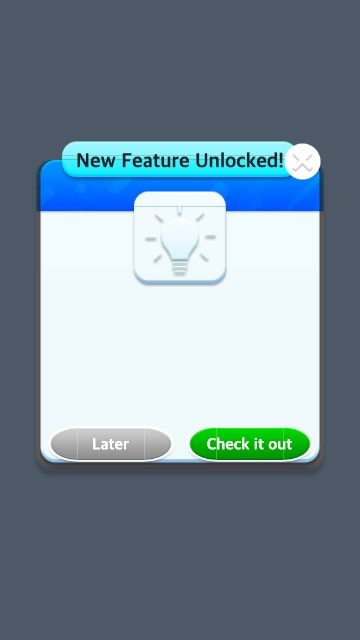
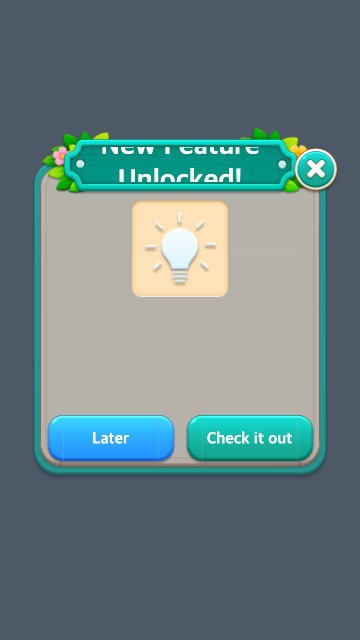
[Max] 팝업 아트 UI 필요 여부 문서 갱신 — 리스타일 반영 (적용 완료 4 → 24)

diff --git a/docs/story-merge-popup-art-need.html b/docs/story-merge-popup-art-need.html
@@ -19,8 +19,6 @@
       <div class="wrap wrap--wide nav-inner">
         <a class="nav-back" href="../index.html">← 허브</a>
         <a class="nav-back" href="#overview">한눈에</a>
-        <a class="nav-back" href="#ingame">인게임</a>
-        <a class="nav-back" href="#outgame">아웃게임</a>
         <a class="nav-back" href="#both">공용</a>
         <a class="nav-back" href="#none">미연결</a>
         <a class="nav-back" href="#done">적용 완료</a>
@@ -39,7 +37,7 @@
           <span class="tag">assets/bundle/popup 프리팹 33종 실측</span>
           <span class="tag">구분 = ViewCreator 호출처</span>
           <span class="tag">판정 = 그림 파일 최초 커밋</span>
-          <span class="tag">2026-10-07</span>
+          <span class="tag">2026-10-14 · 클라 74514e5 + 미커밋 리스타일</span>
         </div>
       </div>
     </header>
@@ -48,28 +46,18 @@
 
       <section class="doc-section" id="overview">
         <h2 class="doc-h2">한눈에 <span class="doc-h2-sub">구분 × 판정 · 필요가 먼저</span></h2>
-        <div class="projbar" id="flt"><button class="projbtn is-active" type="button" data-f="all" style="--acc: var(--analysis)">전체 <span class="projbtn-n">33</span></button><button class="projbtn" type="button" data-f="need" style="--acc: var(--bad)">필요 <span class="projbtn-n">28</span></button><button class="projbtn" type="button" data-f="ok" style="--acc: var(--ok)">적용 완료 <span class="projbtn-n">4</span></button><button class="projbtn" type="button" data-f="na" style="--acc: var(--text-dim)">불필요 <span class="projbtn-n">1</span></button></div>
+        <div class="projbar" id="flt"><button class="projbtn is-active" type="button" data-f="all" style="--acc: var(--analysis)">전체 <span class="projbtn-n">33</span></button><button class="projbtn" type="button" data-f="need" style="--acc: var(--bad)">필요 <span class="projbtn-n">8</span></button><button class="projbtn" type="button" data-f="ok" style="--acc: var(--ok)">적용 완료 <span class="projbtn-n">24</span></button><button class="projbtn" type="button" data-f="na" style="--acc: var(--text-dim)">불필요 <span class="projbtn-n">1</span></button></div>
         <div class="table-scroll">
           <table id="mx">
             <thead><tr><th>구분</th><th data-v="need">필요</th><th data-v="ok">적용 완료</th><th data-v="na">불필요</th></tr></thead>
-            <tbody><tr data-c="ingame"><td><b>인게임</b></td><td data-v="need">생성기 재충전 · 오더 납품 · 판매 확인 · 도구 확인</td><td data-v="ok">생성기 정보 · 보관함 · 새 생성기</td><td data-v="na">—</td></tr><tr data-c="outgame"><td><b>아웃게임</b></td><td data-v="need">스토리 대화 · 출석 · 꾸미기 · 우편함 · 마을 목록 · 설정 · 언어 선택 · 개인정보</td><td data-v="ok">—</td><td data-v="na">인트로 영상</td></tr><tr data-c="both"><td><b>공용</b></td><td data-v="need">상점 · 프로필 · 아바타 선택 · 이름 변경 · 에너지 구매 · 기능 해금 · 레벨업 · 새 날 · 구매 완료 · 오류 · 연결 끊김</td><td data-v="ok">심부름</td><td data-v="na">—</td></tr><tr data-c="none"><td><b>미연결</b></td><td data-v="need">주간 과제 · 보상 공개 · 스타터 팩 · 1+1 오퍼 · 새 버전 · 점검</td><td data-v="ok">—</td><td data-v="na">—</td></tr></tbody>
+            <tbody><tr data-c="ingame"><td><b>인게임</b></td><td data-v="need">—</td><td data-v="ok">생성기 정보 · 생성기 재충전 · 보관함 · 새 생성기 · 오더 납품 · 판매 확인 · 도구 확인</td><td data-v="na">—</td></tr><tr data-c="outgame"><td><b>아웃게임</b></td><td data-v="need">—</td><td data-v="ok">스토리 대화 · 출석 · 꾸미기 · 우편함 · 마을 목록 · 설정 · 언어 선택 · 개인정보</td><td data-v="na">인트로 영상</td></tr><tr data-c="both"><td><b>공용</b></td><td data-v="need">상점 · 새 날 · 구매 완료</td><td data-v="ok">심부름 · 프로필 · 아바타 선택 · 이름 변경 · 에너지 구매 · 기능 해금 · 레벨업 · 오류 · 연결 끊김</td><td data-v="na">—</td></tr><tr data-c="none"><td><b>미연결</b></td><td data-v="need">주간 과제 · 보상 공개 · 스타터 팩 · 1+1 오퍼 · 새 버전 · 점검</td><td data-v="ok">—</td><td data-v="na">—</td></tr></tbody>
           </table>
         </div>
       </section>
 
-      <section class="doc-section" id="ingame">
-        <h2 class="doc-h2">인게임 <span class="doc-h2-sub">필요 4종 · 인게임 화면에서만 열림</span></h2>
-        <div class="shots"><figure class="shot" data-v="need"><img loading="lazy" src="img/popup-art/PopupGeneratorRecharge.jpg" alt="PopupGeneratorRecharge"><figcaption><b>생성기 재충전 <span class="pill" style="--acc: var(--bad)">필요</span></b><span class="src">PopupGeneratorRecharge · 인게임</span></figcaption></figure><figure class="shot" data-v="need"><img loading="lazy" src="img/popup-art/PopupOrderServe.jpg" alt="PopupOrderServe"><figcaption><b>오더 납품 <span class="pill" style="--acc: var(--bad)">필요</span></b><span class="src">PopupOrderServe · 인게임</span></figcaption></figure><figure class="shot" data-v="need"><img loading="lazy" src="img/popup-art/PopupSellConfirm.jpg" alt="PopupSellConfirm"><figcaption><b>판매 확인 <span class="pill" style="--acc: var(--bad)">필요</span></b><span class="src">PopupSellConfirm · 인게임</span></figcaption></figure><figure class="shot" data-v="need"><img loading="lazy" src="img/popup-art/PopupToolConfirm.jpg" alt="PopupToolConfirm"><figcaption><b>도구 확인 <span class="pill" style="--acc: var(--bad)">필요</span></b><span class="src">PopupToolConfirm · 인게임</span></figcaption></figure></div>
-      </section>
-
-      <section class="doc-section" id="outgame">
-        <h2 class="doc-h2">아웃게임 <span class="doc-h2-sub">필요 8종 · 아웃게임 화면 · 부팅에서만 열림</span></h2>
-        <div class="shots"><figure class="shot" data-v="need"><img loading="lazy" src="img/popup-art/PopupChat.jpg" alt="PopupChat"><figcaption><b>스토리 대화 <span class="pill" style="--acc: var(--bad)">필요</span></b><span class="src">PopupChat · 아웃게임</span></figcaption></figure><figure class="shot" data-v="need"><img loading="lazy" src="img/popup-art/PopupCheckin.jpg" alt="PopupCheckin"><figcaption><b>출석 <span class="pill" style="--acc: var(--bad)">필요</span></b><span class="src">PopupCheckin · 아웃게임</span></figcaption></figure><figure class="shot" data-v="need"><img loading="lazy" src="img/popup-art/PopupDecorate.jpg" alt="PopupDecorate"><figcaption><b>꾸미기 <span class="pill" style="--acc: var(--bad)">필요</span></b><span class="src">PopupDecorate · 아웃게임</span></figcaption></figure><figure class="shot" data-v="need"><img loading="lazy" src="img/popup-art/PopupInbox.jpg" alt="PopupInbox"><figcaption><b>우편함 <span class="pill" style="--acc: var(--bad)">필요</span></b><span class="src">PopupInbox · 아웃게임</span></figcaption></figure><figure class="shot" data-v="need"><img loading="lazy" src="img/popup-art/PopupVillageList.jpg" alt="PopupVillageList"><figcaption><b>마을 목록 <span class="pill" style="--acc: var(--bad)">필요</span></b><span class="src">PopupVillageList · 아웃게임</span></figcaption></figure><figure class="shot" data-v="need"><img loading="lazy" src="img/popup-art/PopupSetting.jpg" alt="PopupSetting"><figcaption><b>설정 <span class="pill" style="--acc: var(--bad)">필요</span></b><span class="src">PopupSetting · 아웃게임</span></figcaption></figure><figure class="shot" data-v="need"><img loading="lazy" src="img/popup-art/PopupSettingLanguage.jpg" alt="PopupSettingLanguage"><figcaption><b>언어 선택 <span class="pill" style="--acc: var(--bad)">필요</span></b><span class="src">PopupSettingLanguage · 아웃게임</span></figcaption></figure><figure class="shot" data-v="need"><img loading="lazy" src="img/popup-art/PopupPrivacyPolicy.jpg" alt="PopupPrivacyPolicy"><figcaption><b>개인정보 <span class="pill" style="--acc: var(--bad)">필요</span></b><span class="src">PopupPrivacyPolicy · 아웃게임</span></figcaption></figure></div>
-      </section>
-
       <section class="doc-section" id="both">
-        <h2 class="doc-h2">공용 <span class="doc-h2-sub">필요 11종 · 양쪽에서 열림 (헤더 · 공용 플로우)</span></h2>
-        <div class="shots"><figure class="shot" data-v="need"><img loading="lazy" src="img/popup-art/PopupShop.jpg" alt="PopupShop"><figcaption><b>상점 <span class="pill" style="--acc: var(--bad)">필요</span></b><span class="src">PopupShop · 공용</span></figcaption></figure><figure class="shot" data-v="need"><img loading="lazy" src="img/popup-art/PopupProfile.jpg" alt="PopupProfile"><figcaption><b>프로필 <span class="pill" style="--acc: var(--bad)">필요</span></b><span class="src">PopupProfile · 공용</span></figcaption></figure><figure class="shot" data-v="need"><img loading="lazy" src="img/popup-art/PopupAvatarPicker.jpg" alt="PopupAvatarPicker"><figcaption><b>아바타 선택 <span class="pill" style="--acc: var(--bad)">필요</span></b><span class="src">PopupAvatarPicker · 공용</span></figcaption></figure><figure class="shot" data-v="need"><img loading="lazy" src="img/popup-art/PopupChangeName.jpg" alt="PopupChangeName"><figcaption><b>이름 변경 <span class="pill" style="--acc: var(--bad)">필요</span></b><span class="src">PopupChangeName · 공용</span></figcaption></figure><figure class="shot" data-v="need"><img loading="lazy" src="img/popup-art/PopupEnergyBuy.jpg" alt="PopupEnergyBuy"><figcaption><b>에너지 구매 <span class="pill" style="--acc: var(--bad)">필요</span></b><span class="src">PopupEnergyBuy · 공용</span></figcaption></figure><figure class="shot" data-v="need"><img loading="lazy" src="img/popup-art/PopupFeatureUnlock.jpg" alt="PopupFeatureUnlock"><figcaption><b>기능 해금 <span class="pill" style="--acc: var(--bad)">필요</span></b><span class="src">PopupFeatureUnlock · 공용</span></figcaption></figure><figure class="shot" data-v="need"><img loading="lazy" src="img/popup-art/PopupLevelUp.jpg" alt="PopupLevelUp"><figcaption><b>레벨업 <span class="pill" style="--acc: var(--bad)">필요</span></b><span class="src">PopupLevelUp · 공용</span></figcaption></figure><figure class="shot" data-v="need"><img loading="lazy" src="img/popup-art/PopupNewDay.jpg" alt="PopupNewDay"><figcaption><b>새 날 <span class="pill" style="--acc: var(--bad)">필요</span></b><span class="src">PopupNewDay · 공용</span></figcaption></figure><figure class="shot" data-v="need"><img loading="lazy" src="img/popup-art/PopupPurchaseSuccess.jpg" alt="PopupPurchaseSuccess"><figcaption><b>구매 완료 <span class="pill" style="--acc: var(--bad)">필요</span></b><span class="src">PopupPurchaseSuccess · 공용</span></figcaption></figure><figure class="shot" data-v="need"><img loading="lazy" src="img/popup-art/PopupError.jpg" alt="PopupError"><figcaption><b>오류 <span class="pill" style="--acc: var(--bad)">필요</span></b><span class="src">PopupError · 공용</span></figcaption></figure><figure class="shot" data-v="need"><img loading="lazy" src="img/popup-art/PopupConnectionLost.jpg" alt="PopupConnectionLost"><figcaption><b>연결 끊김 <span class="pill" style="--acc: var(--bad)">필요</span></b><span class="src">PopupConnectionLost · 공용</span></figcaption></figure></div>
+        <h2 class="doc-h2">공용 <span class="doc-h2-sub">필요 3종 · 양쪽에서 열림 (헤더 · 공용 플로우)</span></h2>
+        <div class="shots"><figure class="shot" data-v="need"><img loading="lazy" src="img/popup-art/PopupShop.jpg" alt="PopupShop"><figcaption><b>상점 <span class="pill" style="--acc: var(--bad)">필요</span></b><span class="src">PopupShop · 공용</span></figcaption></figure><figure class="shot" data-v="need"><img loading="lazy" src="img/popup-art/PopupNewDay.jpg" alt="PopupNewDay"><figcaption><b>새 날 <span class="pill" style="--acc: var(--bad)">필요</span></b><span class="src">PopupNewDay · 공용</span></figcaption></figure><figure class="shot" data-v="need"><img loading="lazy" src="img/popup-art/PopupPurchaseSuccess.jpg" alt="PopupPurchaseSuccess"><figcaption><b>구매 완료 <span class="pill" style="--acc: var(--bad)">필요</span></b><span class="src">PopupPurchaseSuccess · 공용</span></figcaption></figure></div>
       </section>
 
       <section class="doc-section" id="none">
@@ -78,8 +66,8 @@
       </section>
 
       <section class="doc-section" id="done">
-        <h2 class="doc-h2">적용 완료 <span class="doc-h2-sub">4종</span></h2>
-        <div class="shots"><figure class="shot" data-v="ok"><img loading="lazy" src="img/popup-art/PopupGeneratorInfo.jpg" alt="PopupGeneratorInfo"><figcaption><b>생성기 정보 <span class="pill" style="--acc: var(--ok)">적용 완료</span></b><span class="src">PopupGeneratorInfo · 인게임</span></figcaption></figure><figure class="shot" data-v="ok"><img loading="lazy" src="img/popup-art/PopupInventory.jpg" alt="PopupInventory"><figcaption><b>보관함 <span class="pill" style="--acc: var(--ok)">적용 완료</span></b><span class="src">PopupInventory · 인게임</span></figcaption></figure><figure class="shot" data-v="ok"><img loading="lazy" src="img/popup-art/PopupNewGenerator.jpg" alt="PopupNewGenerator"><figcaption><b>새 생성기 <span class="pill" style="--acc: var(--ok)">적용 완료</span></b><span class="src">PopupNewGenerator · 인게임</span></figcaption></figure><figure class="shot" data-v="ok"><img loading="lazy" src="img/popup-art/PopupChore.jpg" alt="PopupChore"><figcaption><b>심부름 <span class="pill" style="--acc: var(--ok)">적용 완료</span></b><span class="src">PopupChore · 공용</span></figcaption></figure></div>
+        <h2 class="doc-h2">적용 완료 <span class="doc-h2-sub">24종</span></h2>
+        <div class="shots"><figure class="shot" data-v="ok"><img loading="lazy" src="img/popup-art/PopupGeneratorInfo.jpg" alt="PopupGeneratorInfo"><figcaption><b>생성기 정보 <span class="pill" style="--acc: var(--ok)">적용 완료</span></b><span class="src">PopupGeneratorInfo · 인게임</span></figcaption></figure><figure class="shot" data-v="ok"><img loading="lazy" src="img/popup-art/PopupGeneratorRecharge.jpg" alt="PopupGeneratorRecharge"><figcaption><b>생성기 재충전 <span class="pill" style="--acc: var(--ok)">적용 완료</span></b><span class="src">PopupGeneratorRecharge · 인게임</span></figcaption></figure><figure class="shot" data-v="ok"><img loading="lazy" src="img/popup-art/PopupInventory.jpg" alt="PopupInventory"><figcaption><b>보관함 <span class="pill" style="--acc: var(--ok)">적용 완료</span></b><span class="src">PopupInventory · 인게임</span></figcaption></figure><figure class="shot" data-v="ok"><img loading="lazy" src="img/popup-art/PopupNewGenerator.jpg" alt="PopupNewGenerator"><figcaption><b>새 생성기 <span class="pill" style="--acc: var(--ok)">적용 완료</span></b><span class="src">PopupNewGenerator · 인게임</span></figcaption></figure><figure class="shot" data-v="ok"><img loading="lazy" src="img/popup-art/PopupOrderServe.jpg" alt="PopupOrderServe"><figcaption><b>오더 납품 <span class="pill" style="--acc: var(--ok)">적용 완료</span></b><span class="src">PopupOrderServe · 인게임</span></figcaption></figure><figure class="shot" data-v="ok"><img loading="lazy" src="img/popup-art/PopupSellConfirm.jpg" alt="PopupSellConfirm"><figcaption><b>판매 확인 <span class="pill" style="--acc: var(--ok)">적용 완료</span></b><span class="src">PopupSellConfirm · 인게임</span></figcaption></figure><figure class="shot" data-v="ok"><img loading="lazy" src="img/popup-art/PopupToolConfirm.jpg" alt="PopupToolConfirm"><figcaption><b>도구 확인 <span class="pill" style="--acc: var(--ok)">적용 완료</span></b><span class="src">PopupToolConfirm · 인게임</span></figcaption></figure><figure class="shot" data-v="ok"><img loading="lazy" src="img/popup-art/PopupChat.jpg" alt="PopupChat"><figcaption><b>스토리 대화 <span class="pill" style="--acc: var(--ok)">적용 완료</span></b><span class="src">PopupChat · 아웃게임</span></figcaption></figure><figure class="shot" data-v="ok"><img loading="lazy" src="img/popup-art/PopupCheckin.jpg" alt="PopupCheckin"><figcaption><b>출석 <span class="pill" style="--acc: var(--ok)">적용 완료</span></b><span class="src">PopupCheckin · 아웃게임</span></figcaption></figure><figure class="shot" data-v="ok"><img loading="lazy" src="img/popup-art/PopupDecorate.jpg" alt="PopupDecorate"><figcaption><b>꾸미기 <span class="pill" style="--acc: var(--ok)">적용 완료</span></b><span class="src">PopupDecorate · 아웃게임</span></figcaption></figure><figure class="shot" data-v="ok"><img loading="lazy" src="img/popup-art/PopupInbox.jpg" alt="PopupInbox"><figcaption><b>우편함 <span class="pill" style="--acc: var(--ok)">적용 완료</span></b><span class="src">PopupInbox · 아웃게임</span></figcaption></figure><figure class="shot" data-v="ok"><img loading="lazy" src="img/popup-art/PopupVillageList.jpg" alt="PopupVillageList"><figcaption><b>마을 목록 <span class="pill" style="--acc: var(--ok)">적용 완료</span></b><span class="src">PopupVillageList · 아웃게임</span></figcaption></figure><figure class="shot" data-v="ok"><img loading="lazy" src="img/popup-art/PopupSetting.jpg" alt="PopupSetting"><figcaption><b>설정 <span class="pill" style="--acc: var(--ok)">적용 완료</span></b><span class="src">PopupSetting · 아웃게임</span></figcaption></figure><figure class="shot" data-v="ok"><img loading="lazy" src="img/popup-art/PopupSettingLanguage.jpg" alt="PopupSettingLanguage"><figcaption><b>언어 선택 <span class="pill" style="--acc: var(--ok)">적용 완료</span></b><span class="src">PopupSettingLanguage · 아웃게임</span></figcaption></figure><figure class="shot" data-v="ok"><img loading="lazy" src="img/popup-art/PopupPrivacyPolicy.jpg" alt="PopupPrivacyPolicy"><figcaption><b>개인정보 <span class="pill" style="--acc: var(--ok)">적용 완료</span></b><span class="src">PopupPrivacyPolicy · 아웃게임</span></figcaption></figure><figure class="shot" data-v="ok"><img loading="lazy" src="img/popup-art/PopupChore.jpg" alt="PopupChore"><figcaption><b>심부름 <span class="pill" style="--acc: var(--ok)">적용 완료</span></b><span class="src">PopupChore · 공용</span></figcaption></figure><figure class="shot" data-v="ok"><img loading="lazy" src="img/popup-art/PopupProfile.jpg" alt="PopupProfile"><figcaption><b>프로필 <span class="pill" style="--acc: var(--ok)">적용 완료</span></b><span class="src">PopupProfile · 공용</span></figcaption></figure><figure class="shot" data-v="ok"><img loading="lazy" src="img/popup-art/PopupAvatarPicker.jpg" alt="PopupAvatarPicker"><figcaption><b>아바타 선택 <span class="pill" style="--acc: var(--ok)">적용 완료</span></b><span class="src">PopupAvatarPicker · 공용</span></figcaption></figure><figure class="shot" data-v="ok"><img loading="lazy" src="img/popup-art/PopupChangeName.jpg" alt="PopupChangeName"><figcaption><b>이름 변경 <span class="pill" style="--acc: var(--ok)">적용 완료</span></b><span class="src">PopupChangeName · 공용</span></figcaption></figure><figure class="shot" data-v="ok"><img loading="lazy" src="img/popup-art/PopupEnergyBuy.jpg" alt="PopupEnergyBuy"><figcaption><b>에너지 구매 <span class="pill" style="--acc: var(--ok)">적용 완료</span></b><span class="src">PopupEnergyBuy · 공용</span></figcaption></figure><figure class="shot" data-v="ok"><img loading="lazy" src="img/popup-art/PopupFeatureUnlock.jpg" alt="PopupFeatureUnlock"><figcaption><b>기능 해금 <span class="pill" style="--acc: var(--ok)">적용 완료</span></b><span class="src">PopupFeatureUnlock · 공용</span></figcaption></figure><figure class="shot" data-v="ok"><img loading="lazy" src="img/popup-art/PopupLevelUp.jpg" alt="PopupLevelUp"><figcaption><b>레벨업 <span class="pill" style="--acc: var(--ok)">적용 완료</span></b><span class="src">PopupLevelUp · 공용</span></figcaption></figure><figure class="shot" data-v="ok"><img loading="lazy" src="img/popup-art/PopupError.jpg" alt="PopupError"><figcaption><b>오류 <span class="pill" style="--acc: var(--ok)">적용 완료</span></b><span class="src">PopupError · 공용</span></figcaption></figure><figure class="shot" data-v="ok"><img loading="lazy" src="img/popup-art/PopupConnectionLost.jpg" alt="PopupConnectionLost"><figcaption><b>연결 끊김 <span class="pill" style="--acc: var(--ok)">적용 완료</span></b><span class="src">PopupConnectionLost · 공용</span></figcaption></figure></div>
       </section>
 
       <section class="doc-section" id="na">
@@ -98,6 +86,20 @@
             </p>
           </div>
           <div class="note" style="--acc: var(--validate)">
+            <div class="note-title">적용 완료에 남은 템플릿 부품</div>
+            <p>
+              프레임 · 타이틀 · 버튼이 스토리머지 아트면 적용 완료로 셌습니다. 그 안에 템플릿 그림이 남은 곳 —
+              프로필(레벨 배지 · 경험치 게이지 · 원형 버튼 2개와 아이콘) · 생성기 정보(하단 띠) · 도구 확인(화살표) · 연결 끊김(스피너) ·
+              작은 아이콘(이름 변경 · 우편함 · 오류 · 기능 해금). 비활성 버튼(회색)은 키트에 없어 템플릿 그대로입니다.
+            </p>
+          </div>
+          <div class="note" style="--acc: var(--validate)">
+            <div class="note-title">스토리 대화 캡처가 빈 이유</div>
+            <p>
+              프리팹에는 딤만 있고, 말풍선 · 초상은 런타임에 <code>bundle/dialogue</code> 프리팹(10-13 아트 · 10-14 적용)으로 채웁니다.
+            </p>
+          </div>
+          <div class="note" style="--acc: var(--validate)">
             <div class="note-title">공용 · 미연결 구분</div>
             <p>
               공용은 헤더(상점 · 프로필)나 양쪽 화면의 플로우에서 열려 한 화면으로 못 박을 수 없는 팝업입니다.
@@ -111,7 +113,7 @@
 
     <footer class="site-footer">
       <div class="wrap wrap--wide">
-        작성 2026-10-07 · Supergene
+        작성 2026-10-07 · 갱신 2026-10-14 · Supergene
       </div>
     </footer>
 

diff --git a/data.js b/data.js
@@ -97,12 +97,12 @@ const SECTIONS = [
       },
       {
         title: "팝업 아트 UI 필요 여부",
-        desc: "팝업 프리팹 33종을 인게임 · 아웃게임 · 공용으로 나누고 스토리머지 아트 적용 여부를 캡처와 함께 본 표. 필요 28 · 적용 완료 4 · 불필요 1, 판정 필터 토글.",
+        desc: "팝업 프리팹 33종을 인게임 · 아웃게임 · 공용으로 나누고 스토리머지 아트 적용 여부를 캡처와 함께 본 표. 필요 8 · 적용 완료 24 · 불필요 1, 판정 필터 토글.",
         url: "docs/story-merge-popup-art-need.html",
         project: "smg",
         status: "초안",
-        version: "0ba5c66",
-        updated: "2026-10-07",
+        version: "74514e5",
+        updated: "2026-10-14",
         pinned: false,
         tags: ["story-merge", "팝업", "아트"],
       },
